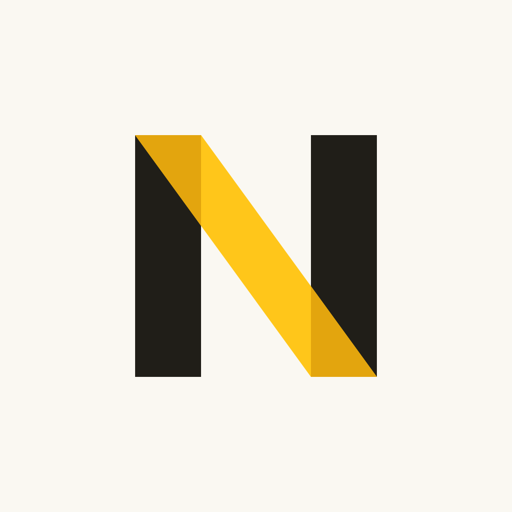
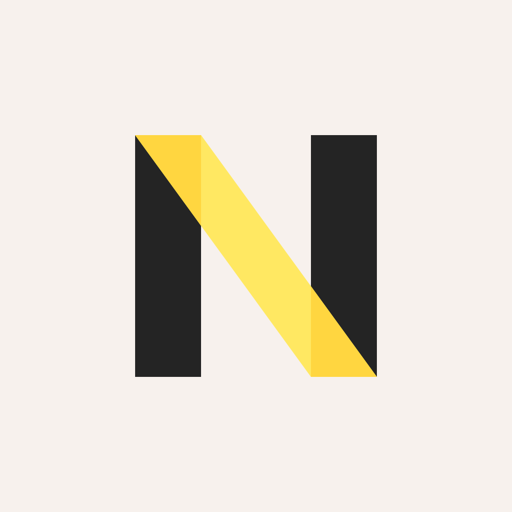
feat(v9): flat lemon palette, editorial type helpers, brand recut
Swap the v8 token block from the golden-gradient system to the v9 flat
lemon palette (paper #F7F1ED, ink #242424, sun #FFE862/deep #FFD640,
soft/dark/hairline tokens). Kill every non-grid-texture gradient
(.btn-sun, .mark-hl, .rail-item.active, .tab-item.active svg, .tl-dot,
.hire-step b, .blog-chips .chip.on) in favor of flat sun fills with ink
on top; .btn-sun gets the sticker box-shadow + deep-sun hover. Add
.sec/.script/.hand/.sig editorial type helpers. Load Archivo, Caveat,
Fraunces italic, Inter, and Mrs Saint Delafield for the v8 shell.
Recolor RibbonMark.astro and recut every brand asset (SVG masters,
favicons, apple-touch/icon-512/1024, og-default.png) to the new hexes,
mirrored back into the logo-ribbon-n deliverables folder.

Changed region(s): [[0.25, 0.25, 0.75, 0.75]]

diff --git a/src/styles/v8.css b/src/styles/v8.css
@@ -1,22 +1,26 @@
 /* v8 "App Shell" — Ribbon N yellow system. Scoped under .v8 so funnels/admin/guides are untouched. */
 .v8 {
-  --paper: #FAF8F2; --surface: #FFFFFF; --ink: #201E18; --muted: #6B675C;
-  --sun: #FFC61A; --sun-hi: #FFD84D; --fold: #E3A50E; --amber: #E89B2D; --gold: #DFA100;
-  --hair: #E8E2D2; --grid: rgba(32, 30, 24, .045);
+  --paper: #F7F1ED; --surface: #FFFFFF; --ink: #242424; --muted: #6B675F;
+  --sun: #FFE862; --sun-deep: #FFD640; --soft: #A8A29A; --dark: #1E1C19;
+  --hair: #E5DCD2; --grid: rgba(36, 36, 36, .035);
   font-family: 'Inter', system-ui, sans-serif;
   color: var(--ink);
   background-color: var(--paper);
   background-image: linear-gradient(var(--grid) 1px, transparent 1px),
     linear-gradient(90deg, var(--grid) 1px, transparent 1px);
-  background-size: 32px 32px;
+  background-size: 44px 44px;
   -webkit-font-smoothing: antialiased;
 }
 .v8 h1, .v8 h2, .v8 h3 { font-family: 'Fraunces', Georgia, serif; font-weight: 600; letter-spacing: -0.01em; text-wrap: balance; }
 .v8 .eyebrow { font-size: 12px; font-weight: 600; letter-spacing: .14em; text-transform: uppercase; color: var(--muted); }
-.v8 .mark-hl { background: linear-gradient(100deg, var(--sun-hi), var(--sun)); padding: 0 .18em; border-radius: .12em; box-decoration-break: clone; -webkit-box-decoration-break: clone; color: #201E18; }
-.v8 .v8-card { background: var(--surface); border: 1px solid var(--hair); border-radius: 18px; box-shadow: 0 1px 2px rgba(32,30,24,.04), 0 12px 32px -18px rgba(32,30,24,.12); }
-.v8 .btn-sun { display: inline-block; font-weight: 650; font-size: 15px; color: #201E18; background: linear-gradient(100deg, var(--sun-hi), var(--sun)); padding: 12px 24px; border-radius: 999px; border: 0; cursor: pointer; text-decoration: none; box-shadow: 0 6px 16px -8px rgba(223,161,0,.6); transition: transform .15s ease, box-shadow .15s ease; }
-.v8 .btn-sun:hover { transform: translateY(-1px); box-shadow: 0 10px 22px -8px rgba(223,161,0,.7); }
+.v8 .sec { font-family: 'Archivo', sans-serif; font-weight: 900; font-size: clamp(30px, 3.6vw, 44px); text-transform: uppercase; letter-spacing: -0.015em; line-height: 1.02; margin: 10px 0 8px; }
+.v8 .script { font-family: 'Fraunces', Georgia, serif; font-style: italic; }
+.v8 .hand { font-family: 'Caveat', cursive; color: var(--ink); }
+.v8 .sig { font-family: 'Mrs Saint Delafield', cursive; color: var(--ink); }
+.v8 .mark-hl { background: var(--sun); padding: 0 .18em; border-radius: .12em; box-decoration-break: clone; -webkit-box-decoration-break: clone; color: #242424; }
+.v8 .v8-card { background: var(--surface); border: 1px solid var(--hair); border-radius: 18px; box-shadow: 0 1px 2px rgba(36,36,36,.04), 0 12px 32px -18px rgba(36,36,36,.12); }
+.v8 .btn-sun { display: inline-block; font-weight: 650; font-size: 15px; color: #242424; background: var(--sun); padding: 12px 24px; border-radius: 999px; border: 0; cursor: pointer; text-decoration: none; box-shadow: 0 2px 0 rgba(36,36,36,.9); transition: transform .15s ease, box-shadow .15s ease; }
+.v8 .btn-sun:hover { background: var(--sun-deep); transform: translateY(-1px); }
 .v8 .btn-ghost { display: inline-block; font-weight: 650; font-size: 15px; color: var(--ink); background: transparent; border: 1px solid var(--hair); padding: 12px 24px; border-radius: 999px; text-decoration: none; }
 .v8 .chip { font-size: 12px; font-weight: 600; letter-spacing: .06em; padding: 5px 12px; border-radius: 999px; border: 1px solid var(--hair); color: var(--muted); background: var(--surface); }
 @media (prefers-reduced-motion: reduce) {
@@ -27,18 +31,18 @@
 .v8.shell { min-height: 100vh; }
 .v8 .shell-strip { position: sticky; top: 0; z-index: 40; display: flex; align-items: center; gap: 10px; font-size: 12.5px; color: var(--muted); background: color-mix(in srgb, var(--paper) 85%, transparent); backdrop-filter: blur(8px); border-bottom: 1px solid var(--hair); padding: 7px 20px 7px 244px; }
 .v8 .strip-live { display: flex; align-items: center; gap: 6px; font-weight: 600; color: var(--ink); }
-.v8 .strip-dot { width: 7px; height: 7px; border-radius: 50%; background: var(--sun); box-shadow: 0 0 0 3px rgba(255,198,26,.25); }
+.v8 .strip-dot { width: 7px; height: 7px; border-radius: 50%; background: var(--sun); box-shadow: 0 0 0 3px rgba(255,232,98,.35); }
 .v8 .strip-mail { margin-left: auto; color: inherit; text-decoration: none; }
 .v8 .shell-rail { position: fixed; inset: 0 auto 0 0; width: 224px; display: flex; flex-direction: column; gap: 18px; padding: 18px 14px; background: color-mix(in srgb, var(--surface) 72%, var(--paper)); border-right: 1px solid var(--hair); z-index: 50; }
 .v8 .rail-brand { display: flex; align-items: center; gap: 10px; text-decoration: none; color: var(--ink); padding: 4px 8px; }
 .v8 .rail-name { font-weight: 700; font-size: 17px; letter-spacing: -0.02em; }
-.v8 .rail-dot { color: var(--gold); }
+.v8 .rail-dot { color: var(--ink); }
 .v8 .rail-nav { display: flex; flex-direction: column; gap: 4px; }
 .v8 .rail-item { display: flex; align-items: center; gap: 11px; padding: 9px 12px; border-radius: 10px; text-decoration: none; color: var(--muted); font-weight: 550; font-size: 14.5px; transition: background .15s ease, color .15s ease; }
-.v8 .rail-item:hover { background: rgba(32,30,24,.05); color: var(--ink); }
-.v8 .rail-item.active { background: linear-gradient(100deg, var(--sun-hi), var(--sun)); color: #201E18; font-weight: 650; }
+.v8 .rail-item:hover { background: rgba(36,36,36,.05); color: var(--ink); }
+.v8 .rail-item.active { background: var(--sun); color: #242424; font-weight: 650; }
 .v8 .rail-foot { margin-top: auto; display: flex; flex-direction: column; gap: 12px; align-items: flex-start; }
-.v8 .rail-avatar { width: 44px; height: 44px; border-radius: 50%; object-fit: cover; object-position: top; border: 2px solid var(--surface); box-shadow: 0 2px 8px rgba(32,30,24,.18); background: var(--sun-hi); }
+.v8 .rail-avatar { width: 44px; height: 44px; border-radius: 50%; object-fit: cover; object-position: top; border: 2px solid var(--surface); box-shadow: 0 2px 8px rgba(36,36,36,.18); background: var(--sun); }
 .v8 .rail-cta { font-size: 13.5px; padding: 10px 16px; }
 .v8 .shell-main { margin-left: 224px; padding: 28px clamp(20px, 4vw, 56px) 64px; max-width: 1120px; }
 .v8 .shell-foot { display: flex; justify-content: space-between; gap: 16px; flex-wrap: wrap; margin-top: 72px; padding-top: 20px; border-top: 1px solid var(--hair); font-size: 13px; color: var(--muted); }
@@ -50,15 +54,15 @@
   .v8 .shell-main { margin-left: 0; padding-bottom: 96px; }
   .v8 .shell-tabbar { display: flex; position: fixed; bottom: 0; left: 0; right: 0; z-index: 50; background: color-mix(in srgb, var(--surface) 92%, transparent); backdrop-filter: blur(10px); border-top: 1px solid var(--hair); padding: 6px 4px calc(6px + env(safe-area-inset-bottom)); }
   .v8 .tab-item { flex: 1; display: flex; flex-direction: column; align-items: center; gap: 3px; font-size: 10.5px; font-weight: 600; color: var(--muted); text-decoration: none; padding: 4px 0; border-radius: 10px; }
-  .v8 .tab-item.active { color: #201E18; }
-  .v8 .tab-item.active svg { background: linear-gradient(100deg, var(--sun-hi), var(--sun)); border-radius: 8px; padding: 2px; box-sizing: content-box; }
+  .v8 .tab-item.active { color: #242424; }
+  .v8 .tab-item.active svg { background: var(--sun); border-radius: 8px; padding: 2px; box-sizing: content-box; }
 }
 
 /* ---- cinematic intro ---- */
-.v8 .intro { position: fixed; inset: 0; z-index: 100; display: grid; place-items: center; background-color: var(--paper); background-image: linear-gradient(var(--grid) 1px, transparent 1px), linear-gradient(90deg, var(--grid) 1px, transparent 1px); background-size: 32px 32px; }
+.v8 .intro { position: fixed; inset: 0; z-index: 100; display: grid; place-items: center; background-color: var(--paper); background-image: linear-gradient(var(--grid) 1px, transparent 1px), linear-gradient(90deg, var(--grid) 1px, transparent 1px); background-size: 44px 44px; }
 .v8 .intro-stage { display: flex; flex-direction: column; align-items: center; gap: 18px; }
 .v8 .intro-word { font-family: 'Fraunces', Georgia, serif; font-weight: 600; font-size: clamp(28px, 5vw, 44px); opacity: 0; }
-.v8 .intro-dot { color: var(--gold); }
+.v8 .intro-dot { color: var(--ink); }
 .v8 .intro-tag { font-size: 14px; letter-spacing: .12em; text-transform: uppercase; color: var(--muted); opacity: 0; }
 .v8 .intro.play .rm-stem-l { animation: introStem .4s cubic-bezier(.2,.8,.25,1) both; transform-origin: 50% 100%; }
 .v8 .intro.play .rm-stem-r { animation: introStem .4s cubic-bezier(.2,.8,.25,1) .15s both; transform-origin: 50% 100%; }
@@ -75,12 +79,12 @@
 
 /* ---- blog / post card ---- */
 .v8 .post-card { display: flex; flex-direction: column; gap: 10px; padding: 20px; text-decoration: none; color: var(--ink); transition: transform .15s ease, box-shadow .15s ease; }
-.v8 .post-card:hover { transform: translateY(-2px); box-shadow: 0 6px 20px -10px rgba(32,30,24,.25); }
+.v8 .post-card:hover { transform: translateY(-2px); box-shadow: 0 6px 20px -10px rgba(36,36,36,.25); }
 .v8 .post-meta { display: flex; align-items: center; gap: 10px; font-size: 12.5px; color: var(--muted); }
 .v8 .post-title { font-size: 19px; margin: 0; line-height: 1.3; }
 .v8 .blog-chips { display: flex; gap: 8px; flex-wrap: wrap; margin: 18px 0 26px; }
 .v8 .blog-chips a { text-decoration: none; }
-.v8 .blog-chips .chip.on { background: linear-gradient(100deg, var(--sun-hi), var(--sun)); color: #201E18; border-color: transparent; }
+.v8 .blog-chips .chip.on { background: var(--sun); color: #242424; border-color: transparent; }
 .v8 .blog-grid { display: grid; grid-template-columns: repeat(auto-fill, minmax(280px, 1fr)); gap: 16px; }
 .v8 .pager { display: flex; gap: 12px; margin-top: 28px; }
 
@@ -93,7 +97,7 @@
 .v8 .hero-stats { display: flex; gap: 28px; margin-top: 24px; }
 .v8 .hero-stats b { display: block; font-size: 22px; font-weight: 750; letter-spacing: -0.02em; }
 .v8 .hero-stats span { font-size: 12.5px; color: var(--muted); }
-.v8 .hero-photo { width: 100%; max-width: 300px; justify-self: center; filter: drop-shadow(0 18px 30px rgba(32,30,24,.25)); }
+.v8 .hero-photo { width: 100%; max-width: 300px; justify-self: center; filter: drop-shadow(0 18px 30px rgba(36,36,36,.25)); }
 .v8 .home-sec { margin-top: 44px; }
 .v8 .home-sec h2 { font-size: clamp(24px, 3vw, 32px); margin: 8px 0 18px; }
 .v8 .cap-grid { display: grid; grid-template-columns: repeat(auto-fill, minmax(210px, 1fr)); gap: 14px; }
@@ -116,7 +120,7 @@
 .v8 .timeline { display: flex; flex-direction: column; }
 .v8 .tl-row { display: grid; grid-template-columns: 28px 1fr; gap: 14px; }
 .v8 .tl-marker { display: flex; flex-direction: column; align-items: center; }
-.v8 .tl-dot { width: 12px; height: 12px; border-radius: 50%; background: linear-gradient(100deg, var(--sun-hi), var(--sun)); border: 2px solid var(--surface); box-shadow: 0 0 0 1px var(--hair); margin-top: 22px; }
+.v8 .tl-dot { width: 12px; height: 12px; border-radius: 50%; background: var(--sun); border: 2px solid var(--surface); box-shadow: 0 0 0 1px var(--hair); margin-top: 22px; }
 .v8 .tl-line { flex: 1; width: 2px; background: var(--hair); }
 .v8 .tl-body { padding: 16px 20px; margin-bottom: 14px; }
 .v8 .tl-body h3 { margin: 0 0 4px; font-size: 17px; }
@@ -130,6 +134,6 @@
 /* ---- hire ---- */
 .v8 .hire-steps { display: flex; flex-wrap: wrap; gap: 12px; margin: 20px 0 8px; }
 .v8 .hire-step { display: flex; align-items: center; gap: 10px; padding: 12px 16px; border: 1px solid var(--hair); border-radius: 12px; background: var(--surface); font-size: 14px; }
-.v8 .hire-step b { display: grid; place-items: center; width: 24px; height: 24px; border-radius: 50%; background: linear-gradient(100deg, var(--sun-hi), var(--sun)); color: #201E18; font-size: 13px; }
+.v8 .hire-step b { display: grid; place-items: center; width: 24px; height: 24px; border-radius: 50%; background: var(--sun); color: #242424; font-size: 13px; }
 .v8 .hire-cta { padding: clamp(22px, 4vw, 34px); margin-top: 32px; }
 .v8 .hire-cta .guarantee { font-size: 17px; color: var(--ink); max-width: 60ch; margin: 0 0 16px; }
